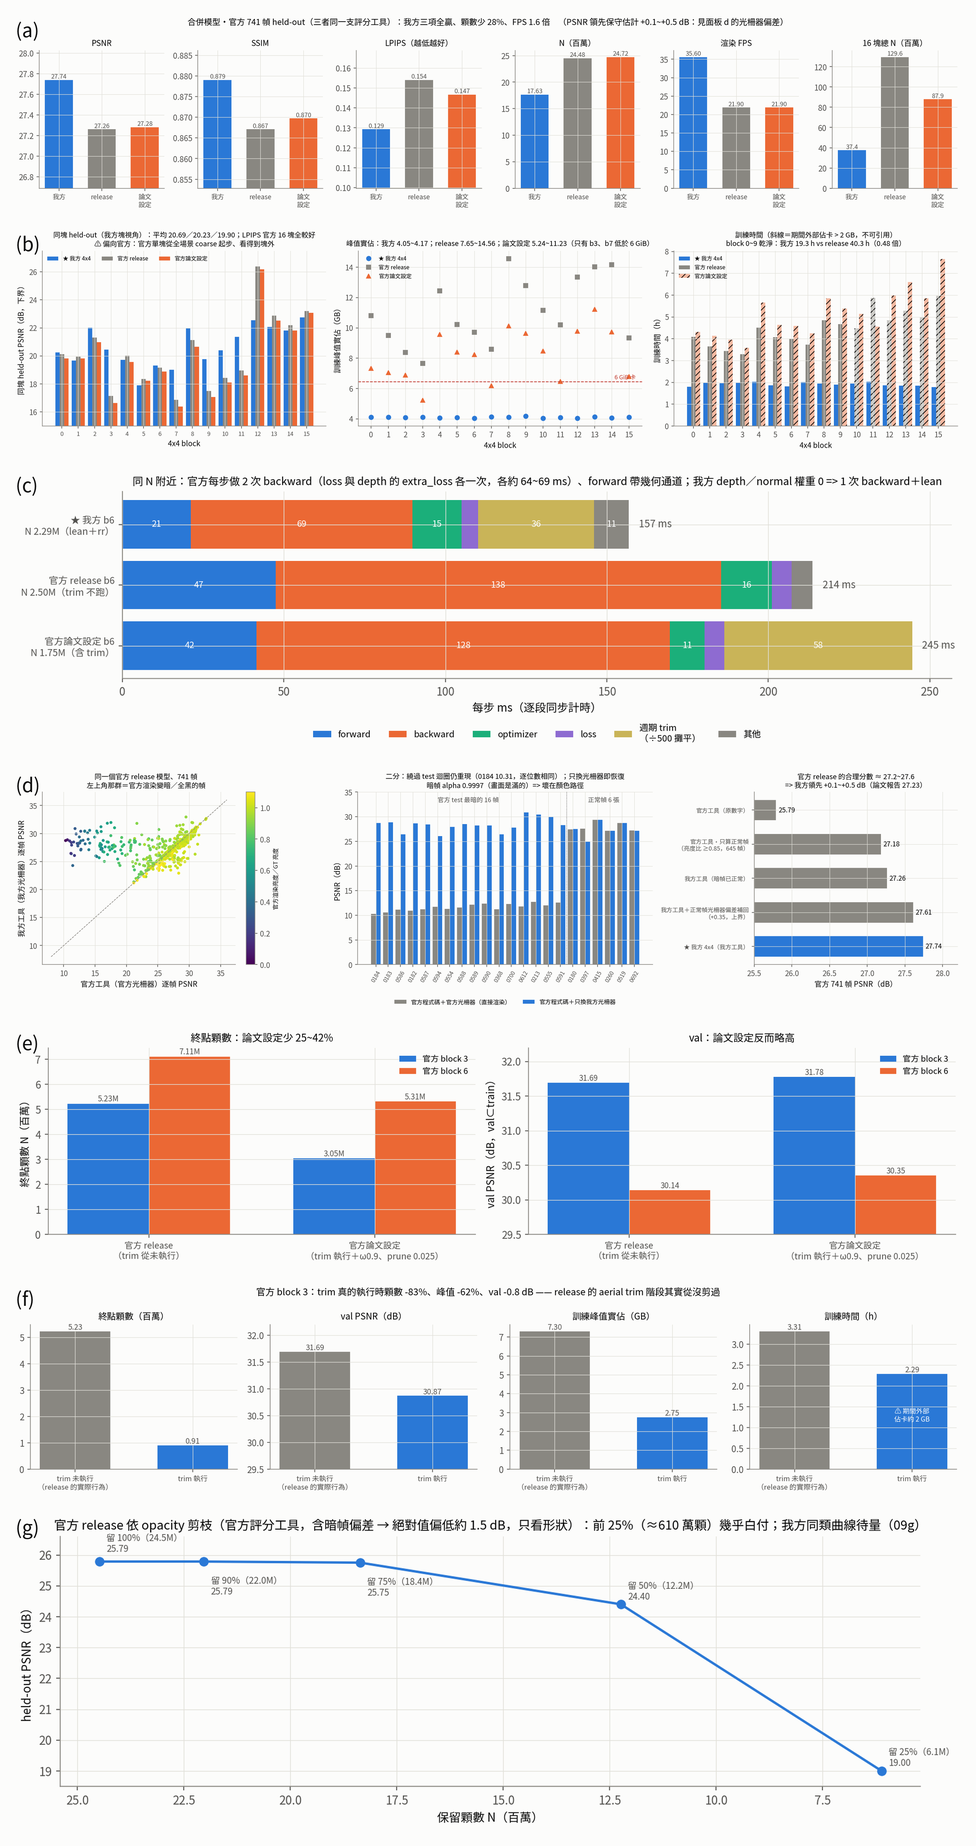
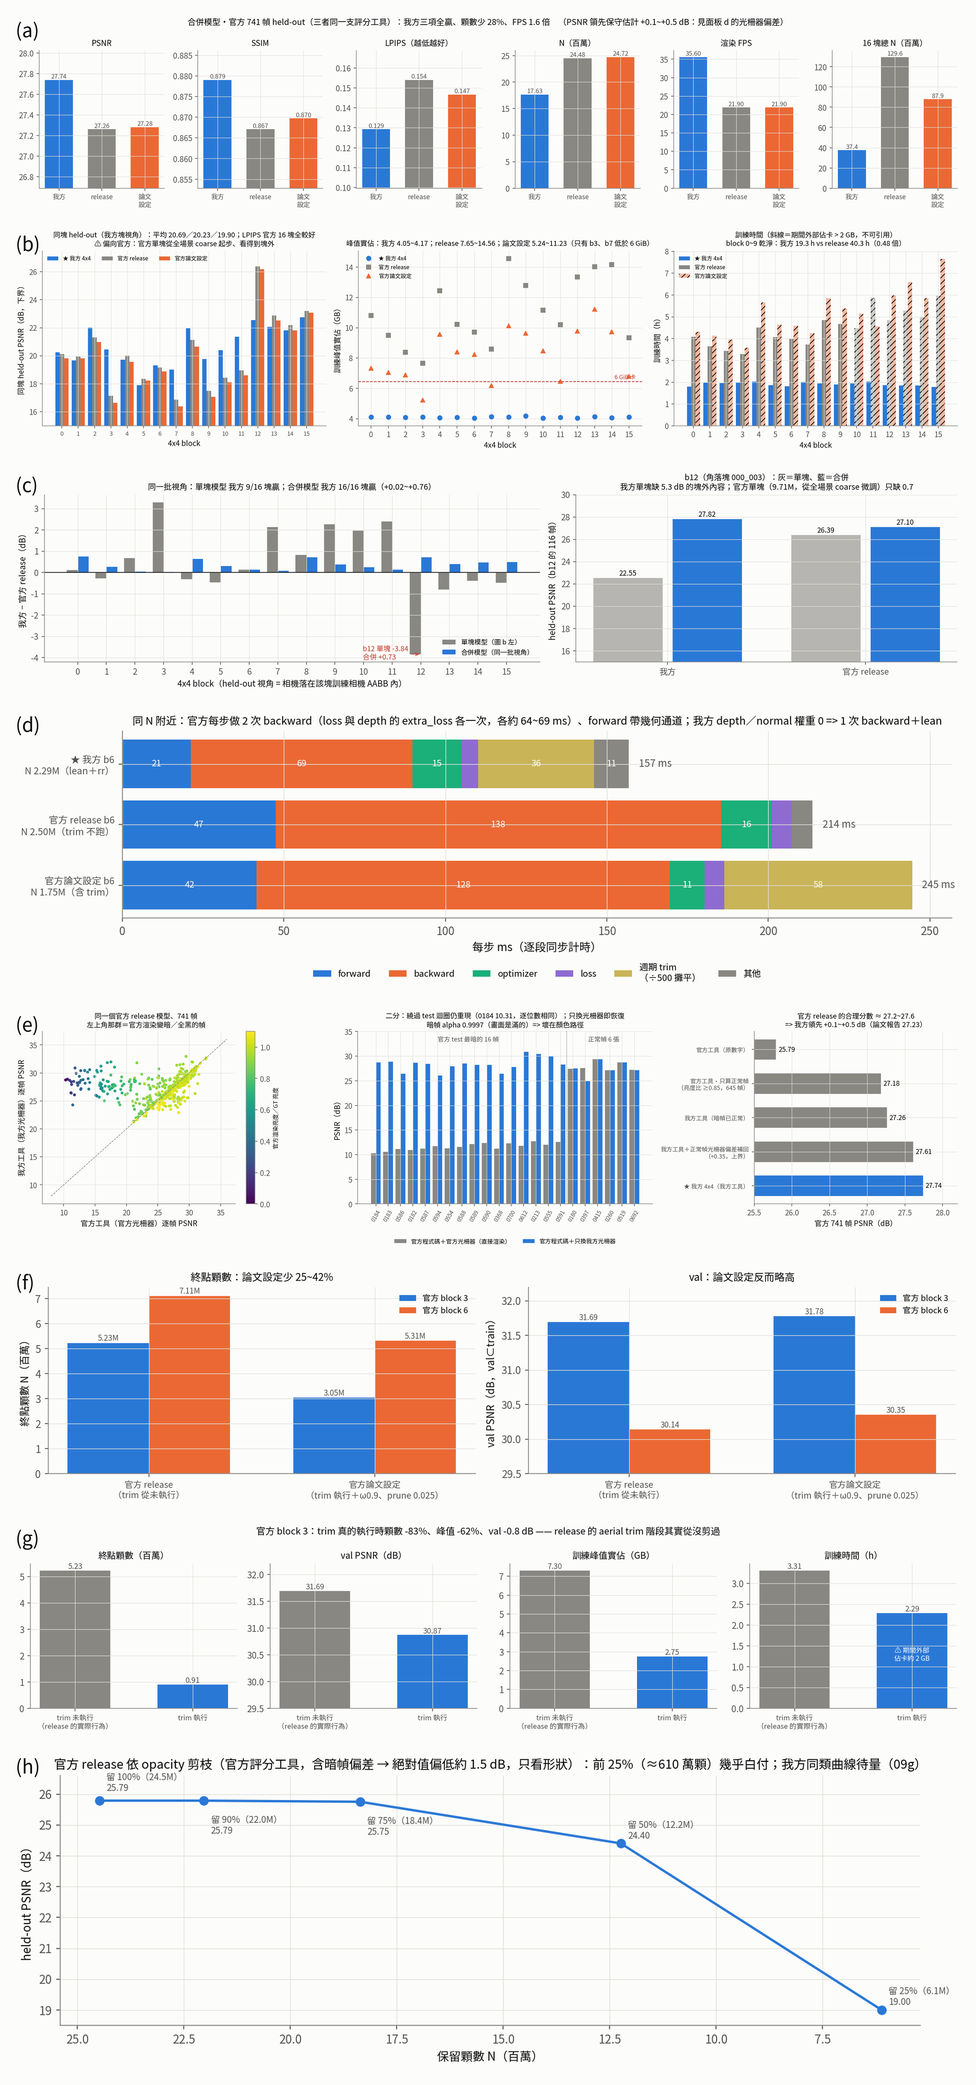
圖 9(c)：合併模型按塊拆開 => b12 單塊 −3.84 是假象（合併 +0.73，16/16 塊贏）；failheld 改評合併模型
- tools/merged_heldout_by_block.py：多條線逐幀 CSV（或我方 PNG）按 4x4 塊視角拆開，含失敗 tile
- eval_official_test：逐幀 CSV 加 n_tiles／n_contrast／n_fail
- task_full44.sh failheld：單塊模型會被塊外內容污染 => 改成三個合併模型 741 幀＋按塊拆開
- 09 §0.2b 逐塊表

Claude-Session: https://claude.ai/code/session_01ASvjmyPMC4F37W41o8s8Aq

diff --git a/tools/merged_heldout_by_block.py b/tools/merged_heldout_by_block.py
@@ -1,13 +1,14 @@
 """合併模型的 held-out 按 4x4 塊拆開（2026-10-10 使用者問：圖 9b 的 b12 單塊輸很多，合併後還輸嗎？）
 
-單塊 held-out（task_full44.sh offheldout）比的是「單塊模型」，而官方單塊含塊外內容 => 偏向官方。
-這裡改比**合併模型**在同一批塊視角（eval_official_test --block B --block_dim 4 4 的選法）上的逐幀 PSNR：
-  我方   = eval_official_test --save_dir 存下的「左 GT／右渲染」PNG（uint8 量化，與浮點 PSNR 差約 0.01 dB）
-  官方   = 我方評分工具對官方合併模型的逐幀 CSV（--per_image_csv；release 那份在 紀錄/實驗分析/data/evalgap/ours_release.csv）
-純 CPU，不載模型。
+單塊 held-out（task_full44.sh offheldout）比的是「單塊模型」，而官方單塊含塊外內容 => 偏向官方
+（b12：我方單塊 22.55 vs 官方 26.39，合併後 27.82 vs 27.10）。
+這裡改比**合併模型**在同一批塊視角（eval_official_test --block B --block_dim 4 4 的選法）上的逐幀數字：
+  每條線一份逐幀 CSV（eval_official_test --per_image_csv；含 n_tiles／n_contrast／n_fail 時一併報失敗 tile）
+  或 --ours_dir：eval_official_test --save_dir 存下的「左 GT／右渲染」PNG（只有 PSNR；uint8 量化，與浮點差約 0.01 dB）
+第一條線是比較基準（差 = 其他線 − 第一條線）。純 CPU，不載模型。
 
-用法：python tools/merged_heldout_by_block.py --ours_dir outputs/lab/full44_best/test_official \
-        --official_csv 紀錄/實驗分析/data/evalgap/ours_release.csv [--blocks 12]
+用法：python tools/merged_heldout_by_block.py --csv 我方=logs/a.csv release=logs/b.csv [--blocks 12]
+      python tools/merged_heldout_by_block.py --ours_dir outputs/lab/full44_best/test_official --csv release=logs/evalgap/ours_release.csv
 """
 import argparse
 import csv
@@ -24,42 +25,63 @@ sys.path.insert(0, os.path.join(ROOT, "tools"))
 
 def main():
     ap = argparse.ArgumentParser()
-    ap.add_argument("--ours_dir", required=True)
-    ap.add_argument("--official_csv", required=True)
+    ap.add_argument("--csv", nargs="+", default=[], help="名稱=逐幀 CSV 路徑")
+    ap.add_argument("--ours_dir", default=None, help="（可選）我方 PNG 目錄，當作名稱「我方」的第一條線")
     ap.add_argument("--blocks", type=int, nargs="+", default=list(range(16)))
     ap.add_argument("--block_dim", type=int, nargs=2, default=[4, 4])
     ap.add_argument("--train_dir", default="data/matrix_city/aerial/train/block_all")
     ap.add_argument("--test_dir", default="data/matrix_city/aerial/test/block_all_test_official2")
-    ap.add_argument("--worst", type=int, default=8, help="每塊列出我方落後最多的幾幀")
+    ap.add_argument("--worst", type=int, default=8, help="只看 1~3 塊時，列出第二條線領先第一條最多的幾幀")
     a = ap.parse_args()
     import eval_official_test as eot
     names, cams = eot.load_test_cameras(a.test_dir, 1.2)
     centres = np.array([(-cams.R[i].numpy().T @ cams.T[i].numpy()) for i in range(len(names))])
-    off = {r["name"]: float(r["psnr"]) for r in csv.DictReader(open(a.official_csv))}
-    cache = {}
 
-    def ours_psnr(n):
-        if n not in cache:
+    lines = {}   # 名稱 -> {幀名: (psnr, n_tiles, n_contrast, n_fail) }
+    if a.ours_dir:
+        d = {}
+        for n in names:
             im = np.asarray(Image.open(os.path.join(a.ours_dir, n.rsplit(".", 1)[0] + "_gt_vs_render.png")).convert("RGB"), np.float64) / 255.
             w = im.shape[1] // 2
-            cache[n] = float(-10 * np.log10(max(((im[:, :w] - im[:, w:]) ** 2).mean(), 1e-12)))
-        return cache[n]
+            d[n] = (float(-10 * np.log10(max(((im[:, :w] - im[:, w:]) ** 2).mean(), 1e-12))), np.nan, np.nan, np.nan)
+        lines["我方"] = d
+    for spec in a.csv:
+        nm, path = spec.split("=", 1)
+        d = {}
+        for r in csv.DictReader(open(path)):
+            g = lambda k: float(r[k]) if r.get(k) not in (None, "") else np.nan
+            d[r["name"]] = (float(r["psnr"]), g("n_tiles"), g("n_contrast"), g("n_fail"))
+        lines[nm] = d
+    L = list(lines)
+    has_fail = {k: not np.isnan(next(iter(v.values()))[3]) for k, v in lines.items()}
 
-    print(f"{'塊':>3} {'幀':>4} {'我方合併':>9} {'官方合併':>9} {'差':>7} {'我方贏的幀':>10}")
+    hdr = f"{'塊':>3} {'幀':>4} " + " ".join(f"{k:>10}" for k in L) + " " + " ".join(f"{'差 ' + k:>10}" for k in L[1:])
+    if any(has_fail.values()):
+        hdr += "   失敗 tile %（全部 tile／過對比門檻）：" + "  ".join(k for k in L if has_fail[k])
+    print(hdr)
+
+    def row(tag, sel):
+        P = {k: np.array([lines[k][names[i]][0] for i in sel]) for k in L}
+        s = f"{tag:>3} {len(sel):>4} " + " ".join(f"{P[k].mean():>10.3f}" for k in L) + " " + \
+            " ".join(f"{P[k].mean() - P[L[0]].mean():>+10.3f}" for k in L[1:])
+        for k in L:
+            if has_fail[k]:
+                t = np.array([lines[k][names[i]][1:] for i in sel]).sum(0)
+                s += f"   {k} {100 * t[2] / max(t[0], 1):.2f}／{100 * t[2] / max(t[1], 1):.2f}"
+        print(s)
+        return P
+
     for B in a.blocks:
         lo, hi, _ = eot.block_bounds(a.train_dir, B, a.block_dim)
         sel = [i for i in range(len(names)) if np.all(centres[i] >= lo) and np.all(centres[i] <= hi)]
         if not sel:
             print(f"{B:>3}    0"); continue
-        o = np.array([ours_psnr(names[i]) for i in sel]); r = np.array([off[names[i]] for i in sel])
-        print(f"{B:>3} {len(sel):>4} {o.mean():>9.3f} {r.mean():>9.3f} {o.mean() - r.mean():>+7.3f} {int((o > r).sum()):>5}/{len(sel)}")
-        if len(a.blocks) <= 3:
-            d = o - r; k = np.argsort(d)[:a.worst]
-            print("     我方落後最多：" + "  ".join(f"{names[sel[j]]} {o[j]:.2f}/{r[j]:.2f}" for j in k))
-            k = np.argsort(-d)[:4]
-            print("     我方領先最多：" + "  ".join(f"{names[sel[j]]} {o[j]:.2f}/{r[j]:.2f}" for j in k))
-    allo = np.array([ours_psnr(n) for n in names]); allr = np.array([off[n] for n in names])
-    print(f"全部 {len(names)} 幀（PNG 量化版）：我方 {allo.mean():.3f}／官方 {allr.mean():.3f}")
+        P = row(str(B), sel)
+        if len(a.blocks) <= 3 and len(L) >= 2:
+            dd = P[L[1]] - P[L[0]]
+            k = np.argsort(-dd)[:a.worst]
+            print(f"     {L[1]} 領先 {L[0]} 最多：" + "  ".join(f"{names[sel[j]]} {P[L[0]][j]:.2f}/{P[L[1]][j]:.2f}" for j in k))
+    row("全", list(range(len(names))))
 
 
 if __name__ == "__main__":

diff --git a/tools/plot_analysis.py b/tools/plot_analysis.py
@@ -217,6 +217,11 @@ F44 = {
     'rext': [0, 0, 0, 0, 0, 0, 0, 0, 0, 0, 5302, 16251, 6174, 7128, 8914, 18161],
     'pext': [8290, 5722, 3674, 4610, 7358, 5108, 7712, 6448, 7698, 8278, 14854, 11654, 14704, 8696, 12228, 17351],
 }
+# 10-10：合併模型在各 4x4 塊 held-out 視角上的逐塊平均（tools/merged_heldout_by_block.py；我方 PNG 量化版、官方 release 用我方評分工具的逐幀 CSV）
+M44 = {"n": [172, 213, 228, 193, 240, 306, 324, 271, 237, 359, 382, 271, 116, 181, 219, 171],
+       "o": [28.101, 27.454, 26.762, 26.711, 28.033, 27.617, 27.212, 27.054, 28.039, 27.572, 27.458, 27.344, 27.823, 27.314, 27.977, 28.396],
+       "r": [27.340, 27.180, 26.707, 26.687, 27.385, 27.312, 27.067, 26.976, 27.321, 27.190, 27.201, 27.209, 27.098, 26.905, 27.493, 27.901]}
+
 LBL3 = ["★ 我方 4x4", "官方 release", "官方論文設定"]
 
 
@@ -268,6 +273,31 @@ def n09_full44_blocks(d):
     ax.set_xticks(x); ax.set_xlabel("4x4 block"); ax.set_ylabel("訓練時間（h）"); ax.legend(fontsize=7.5, loc="upper left")
     ax.set_title("訓練時間（斜線＝期間外部佔卡 > 2 GB，不可引用）\nblock 0~9 乾淨：我方 19.3 h vs release 40.3 h（0.48 倍）", fontsize=9.5)
     save(fig, d, "n09_full44_blocks.png")
+
+
+def n09_merged_blocks(d):
+    """同一批塊視角：單塊模型 vs 合併模型（我方 vs 官方 release）。b12 單塊輸 3.8 dB，合併後贏 0.73。"""
+    x = np.arange(16); wd = 0.38
+    fig, axs = plt.subplots(1, 2, figsize=(16, 3.9), gridspec_kw={"width_ratios": [1.3, 1]})
+    ax = axs[0]
+    ds = np.array(F44["oh"]) - np.array(F44["rh"]); dm = np.array(M44["o"]) - np.array(M44["r"])
+    ax.bar(x - wd / 2, ds, wd, color=MUTED, label="單塊模型（圖 b 左）")
+    ax.bar(x + wd / 2, dm, wd, color=C1, label="合併模型（同一批視角）")
+    ax.axhline(0, color="k", lw=0.8)
+    for i in (12,):
+        ax.annotate(f"b12 單塊 {ds[i]:+.2f}\n合併 {dm[i]:+.2f}", (i, ds[i]), xytext=(-70, -6), textcoords="offset points", fontsize=8.5, color="#c0392b",
+                    arrowprops=dict(arrowstyle="->", color="#c0392b", lw=0.8))
+    ax.set_xticks(x); ax.set_xlabel("4x4 block（held-out 視角 = 相機落在該塊訓練相機 AABB 內）"); ax.set_ylabel("我方 − 官方 release（dB）")
+    ax.legend(fontsize=8, loc="lower right")
+    ax.set_title("同一批視角：單塊模型 我方 9/16 塊贏；合併模型 我方 16/16 塊贏（+0.02~+0.76）", fontsize=9.5)
+    ax = axs[1]
+    ax.bar([0, 1], [F44["oh"][12], F44["rh"][12]], 0.35, color=[MUTED, MUTED], alpha=0.6)
+    ax.bar([0.4, 1.4], [M44["o"][12], M44["r"][12]], 0.35, color=[C1, C1])
+    for xx, v in zip([0, 1, 0.4, 1.4], [F44["oh"][12], F44["rh"][12], M44["o"][12], M44["r"][12]]):
+        ax.text(xx, v + 0.2, f"{v:.2f}", ha="center", fontsize=8.5)
+    ax.set_xticks([0.2, 1.2]); ax.set_xticklabels(["我方", "官方 release"]); ax.set_ylim(15, 30); ax.set_ylabel("held-out PSNR（b12 的 116 幀）")
+    ax.set_title("b12（角落塊 000_003）：灰＝單塊、藍＝合併\n我方單塊缺 5.3 dB 的塊外內容；官方單塊（9.71M，從全場景 coarse 微調）只缺 0.7", fontsize=9.5)
+    save(fig, d, "n09_merged_blocks.png")
 
 
 def n09_stepprof(d):
@@ -743,7 +773,7 @@ DOCS = {
     "06_事後剪枝與fine-tune": ["f3_tile_topk_posthoc", "f6_prune_finetune"],
     "07_成本感知取樣與預算": ["n07_sampling"],
     "08_初始化": ["n08_init20k", "f4_init60k", "n08_init60k"],
-    "09_官方參考線": ["n09_full44_merged", "n09_full44_blocks", "n09_stepprof", "n09_evalgap", "n09_official_blocks", "n09_trim", "f5_official_prune"],
+    "09_官方參考線": ["n09_full44_merged", "n09_full44_blocks", "n09_merged_blocks", "n09_stepprof", "n09_evalgap", "n09_official_blocks", "n09_trim", "f5_official_prune"],
     "10_速度優化_lean與kernel拆解": ["n10_kernels"],
     "11_逐配對工作量上限": ["n11_tiles"],
     "12_新年代重測_幾何floater失敗區": ["n12_recheck", "n12_heldout"],
@@ -782,7 +812,7 @@ def main():
                            capture_output=True, text=True)
         if r.returncode != 0:
             print(r.stdout[-2000:], r.stderr[-2000:]); raise SystemExit(f"⛔ {sc} 失敗")
-    for f in (n02_current, n05_cap60k, n07_sampling, n08_init20k, n08_init60k, n09_official_blocks, n09_full44_merged, n09_full44_blocks, n09_stepprof, n09_evalgap, n05_arms60k, n09_trim,
+    for f in (n02_current, n05_cap60k, n07_sampling, n08_init20k, n08_init60k, n09_official_blocks, n09_full44_merged, n09_full44_blocks, n09_merged_blocks, n09_stepprof, n09_evalgap, n05_arms60k, n09_trim,
               n01_steps, n01_scaling, n01_maxsplit, n02_segments, n02_value, n05_main, n05_official, n05_frontier60k, n04_time, n04_load,
               n10_lean_loop, n10_kernels, n11_tiles, n12_recheck, n12_heldout):
         f(tmp)

diff --git a/tools/eval_official_test.py b/tools/eval_official_test.py
@@ -237,6 +237,7 @@ def main():
             print(f"\n════ opacity 保留 {100 * keep:.0f}%：N={model.get_xyz.shape[0]:,} ════")
         ps, ss, ls, tr, tg, ms, br = [], [], [], [], [], [], []
         fs = [0, 0, 0]   # 全部 tile／過對比門檻／失敗
+        fpi = []         # 逐幀 (全部, 過門檻, 失敗)
         import time
         torch.cuda.reset_peak_memory_stats()
         with torch.no_grad():
@@ -251,7 +252,7 @@ def main():
                 ss.append(float(ssim_fn(out, gt)))
                 ls.append(float(lpips_fn(out.unsqueeze(0), gt.unsqueeze(0))))
                 br.append(float(out.mean() / gt.mean().clamp_min(1e-6)))
-                ft = fail_tiles(gt, out, a.fail_tile, a.fail_min_std, a.fail_r_min); fs[0] += ft[0]; fs[1] += ft[1]; fs[2] += ft[2]
+                ft = fail_tiles(gt, out, a.fail_tile, a.fail_min_std, a.fail_r_min); fs[0] += ft[0]; fs[1] += ft[1]; fs[2] += ft[2]; fpi.append(ft)
                 if a.save_dir:
                     both = torch.cat([gt, out], dim=2).permute(1, 2, 0).cpu().numpy()
                     Image.fromarray((both * 255).astype(np.uint8)).save(
@@ -285,9 +286,9 @@ def main():
                       f"{np.mean([ss[j] for j in ix]):>7.4f} {np.mean([ls[j] for j in ix]):>7.4f}")
         if a.per_image_csv:
             with open(a.per_image_csv, "w") as f:
-                f.write("name,psnr,ssim,lpips,bright_ratio\n")
+                f.write("name,psnr,ssim,lpips,bright_ratio,n_tiles,n_contrast,n_fail\n")
                 for j, i in enumerate(sel):
-                    f.write(f"{names[i]},{ps[j]:.5f},{ss[j]:.5f},{ls[j]:.5f},{br[j]:.4f}\n")
+                    f.write(f"{names[i]},{ps[j]:.5f},{ss[j]:.5f},{ls[j]:.5f},{br[j]:.4f},{fpi[j][0]},{fpi[j][1]},{fpi[j][2]}\n")
             print(f"[逐張] {a.per_image_csv}")
         if a.save_dir:
             print(f"[圖] {a.save_dir}（左=GT 右=渲染）")

diff --git a/紀錄/實驗分析/09_官方參考線.md b/紀錄/實驗分析/09_官方參考線.md
@@ -5,7 +5,7 @@
 > 資源 `logs/citygs_official_resources.tsv`、逐塊現況 `logs/citygs_official_status_*.txt`、剪枝 `logs/citygs_official_prune.tsv`（lab）
 > 我方 4x4：lab `outputs/lab/full44_best`（`logs/full44_test_1005_0432.log`、`full44_res_1005_0452.log`、各塊 `chart_data/`）；官方逐段計時 `logs/citygs_official_stepprof_{orig,paper}_b6.txt`
 > 評分落差：`紀錄/實驗分析/data/evalgap/`（lab `logs/evalgap/` 的副本；`scripts/lab/task_evalgap.sh`、`tools/evalgap_render_official.py`）
-> **重現**：`python tools/plot_analysis.py`（a=`n09_full44_merged`、b=`n09_full44_blocks`、c=`n09_stepprof`、d=`n09_evalgap`、e=`n09_official_blocks`、f=`n09_trim`、g=f5）；10-10 改版：b 峰值改只畫點、e 拿掉「一行修正」欄、f 聚焦 trim 執行與否
+> **重現**：`python tools/plot_analysis.py`（a=`n09_full44_merged`、b=`n09_full44_blocks`、c=`n09_merged_blocks`、d=`n09_stepprof`、e=`n09_evalgap`、f=`n09_official_blocks`、g=`n09_trim`、h=f5）；10-10 改版：b 峰值改只畫點、e 拿掉「一行修正」欄、f 聚焦 trim 執行與否
 
 ## 圖表對照
 
@@ -13,11 +13,12 @@
 |---|---|---|
 | (a) | ★ 合併模型・官方 741 幀 held-out：我方 4x4 vs 官方 release vs 官方論文設定（同一支工具）＋N／FPS | §0.1 |
 | (b) | 逐塊（4x4 共 16 塊）：同塊 held-out PSNR、訓練峰值實佔（只畫點）、訓練時間（⚠ 論文設定各塊都有外部佔卡 => 時間不可引用；乾淨重跑 3 塊已排） | §0.2 |
-| (c) | 同 N 附近的每步逐段時間：我方 vs 官方 release vs 論文設定（b6） | §0.3 |
-| (d) | ★ 評分工具落差 1.47 dB 的二分：逐幀散布、暗幀換光柵器、官方 release 合理分數區間 | §0.1 |
-| (e) | 官方 block 3／6：release（trim 從未執行）vs 論文設定（trim 執行＋ω0.9、prune 0.025）的 N 與 val | §3、§4 |
-| (f) | trim 未執行 vs 執行（官方 b3，其餘配方相同）：N、val、峰值 VRAM、訓練時間 | §3 |
-| (g) | 官方合併模型依 opacity 剪枝的 held-out 曲線（⚠ 官方工具，含暗幀 => 只看形狀）；我方 4x4 同一支工具的同類曲線待量（已排） | §5 |
+| (c) | ★ 同一批塊視角：單塊模型 vs 合併模型（我方 − 官方 release，逐塊）；b12 單塊 −3.84、合併 +0.73 | §0.2b |
+| (d) | 同 N 附近的每步逐段時間：我方 vs 官方 release vs 論文設定（b6） | §0.3 |
+| (e) | ★ 評分工具落差 1.47 dB 的二分：逐幀散布、暗幀換光柵器、官方 release 合理分數區間 | §0.1 |
+| (f) | 官方 block 3／6：release（trim 從未執行）vs 論文設定（trim 執行＋ω0.9、prune 0.025）的 N 與 val | §3、§4 |
+| (g) | trim 未執行 vs 執行（官方 b3，其餘配方相同）：N、val、峰值 VRAM、訓練時間 | §3 |
+| (h) | 官方合併模型依 opacity 剪枝的 held-out 曲線（⚠ 官方工具，含暗幀 => 只看形狀）；我方 4x4 同一支工具的同類曲線待量（已排） | §5 |
 
 ## 結論
 
@@ -29,7 +30,8 @@
   SSIM／LPIPS 的領先（.879 vs .867~.870、.129 vs .147~.154）與資源面（N -28%、FPS 1.6 倍、峰值 ≤4.17 GB、時間 0.48 倍）較穩。
 - 同 N 附近每步：我方 121 ms（真實步；逐段同步和 157 ms，10-10 飽和跳過＋先加總後 126 ms，見 `01`(a)）vs 官方 release 214 ms（1.78 倍）。官方每步 **2 次 backward**（loss 與深度的 extra_loss 分開 backward，各約 69 ms）
   且 forward 帶幾何通道；我方 depth／normal 權重 0 => 1 次 backward＋lean。
-- 同塊 held-out（單塊模型、我方塊視角）：PSNR 平均 20.69／20.23／19.90、我方 9/16 塊勝 release（⚠ b12 輸很多，原因待討論）；**LPIPS 官方 16 塊全較好**——
+- **合併模型按塊拆開（10-10，面板 c）：同一批塊視角上我方 16/16 塊都贏 release（+0.02~+0.76）**；b12 單塊 −3.84 → 合併 **+0.73**（95/116 幀贏）=> b12 的落差是單塊評法的假象（§0.2b）。
+- 同塊 held-out（單塊模型、我方塊視角）：PSNR 平均 20.69／20.23／19.90、我方 9/16 塊勝 release；**LPIPS 官方 16 塊全較好**——
   但這個量尺偏向官方（官方單塊從全場景 coarse 起步、看得到塊外；合併後這個優勢消失，合併 LPIPS 反而我方好）。
 - 官方兩條線之間：論文設定的 val 15/16 塊高於 release，但同塊 held-out 16/16 塊**低於** release；合併後幾乎平手（+0.02 dB、LPIPS 較好）。
 - 官方原版用**官方工具**量的 held-out：PSNR 25.79／SSIM 0.833／LPIPS 0.176（⚠ 含光柵器暗幀，見 §0.1），N 24.48M、ckpt 41 GB、test 峰值實佔 11.9 GB、每幀 0.088 s。
@@ -105,6 +107,36 @@ release  官方 cityGS_origin 未改原始碼＋gspl_official，sh2、coarse -> 
 - 同塊 held-out 的偏向：官方單塊模型由全場景 coarse 微調、含塊外內容，而 held-out 視角大半看到塊外 => 對單塊官方有利；
   b12 最明顯（官方 26.39 vs 我方 22.55）。合併後各塊只保留塊內，這個優勢消失 => **全場景比較以 §0.1 為準**。
 - val 不同影像（相機重疊 52~70%），只當參考；官方 val 平均高 0.44~0.54，與合併 held-out 方向相反。
+
+### §0.2b 合併模型按塊拆開（10-10，面板 c；`tools/merged_heldout_by_block.py`）
+
+使用者問 b12 為何單塊輸很多。同一批塊視角（相機落在該塊訓練相機 AABB 內）改比**合併模型**：我方＝`full44_best/test_official` 的 GT|渲染 PNG（uint8 量化，全 741 幀 27.746 vs 浮點 27.739）、
+官方 release＝我方評分工具的逐幀 CSV（`logs/evalgap/ours_release.csv`）。
+
+| 塊 | 幀 | 我方合併 | 官方合併 | 差 | 我方贏的幀 | 單塊差（§0.2） |
+|---|---:|---:|---:|---:|---:|---:|
+| 0 | 172 | 28.101 | 27.340 | +0.760 | 136 | +0.13 |
+| 1 | 213 | 27.454 | 27.180 | +0.274 | 136 | −0.27 |
+| 2 | 228 | 26.762 | 26.707 | +0.055 | 125 | +0.69 |
+| 3 | 193 | 26.711 | 26.687 | +0.024 | 101 | +3.30 |
+| 4 | 240 | 28.033 | 27.385 | +0.648 | 191 | −0.31 |
+| 5 | 306 | 27.617 | 27.312 | +0.305 | 221 | −0.46 |
+| 6 | 324 | 27.212 | 27.067 | +0.145 | 209 | +0.15 |
+| 7 | 271 | 27.054 | 26.976 | +0.079 | 156 | +2.15 |
+| 8 | 237 | 28.039 | 27.321 | +0.718 | 195 | +0.84 |
+| 9 | 359 | 27.572 | 27.190 | +0.382 | 270 | +2.28 |
+| 10 | 382 | 27.458 | 27.201 | +0.257 | 263 | +1.98 |
+| 11 | 271 | 27.344 | 27.209 | +0.134 | 165 | +2.39 |
+| **12** | 116 | **27.823** | 27.098 | **+0.725** | 95 | **−3.84** |
+| 13 | 181 | 27.314 | 26.905 | +0.409 | 145 | −0.80 |
+| 14 | 219 | 27.977 | 27.493 | +0.484 | 175 | −0.38 |
+| 15 | 171 | 28.396 | 27.901 | +0.496 | 128 | −0.48 |
+
+（塊視角會重疊，一幀可屬多塊，所以各列不能加總。）
+- b12 是角落塊（分區檔 `000_003`）、訓練相機最少之一（516）。它的 116 個 held-out 視角大半看向塊外：我方單塊 22.55 → 合併 27.82（**缺 5.3 dB 的塊外內容**），
+  官方單塊 26.39 → 合併 27.10（只缺 0.7）—— 官方單塊從全場景 coarse 微調、N 9.71M，本身就帶著大量塊外內容。
+- ⇒ 單塊 held-out 量到的主要是「單塊模型帶了多少塊外內容」，不是該塊的重建品質；**跨線比較一律用合併模型**（§0.1、本表）。
+- 單塊差與合併差幾乎無關（b3 單塊 +3.30、合併 +0.02；b12 單塊 −3.84、合併 +0.73）。
 
 ### §0.3 同 N 附近的每步逐段時間（面板 c；每標記點同步）
 
